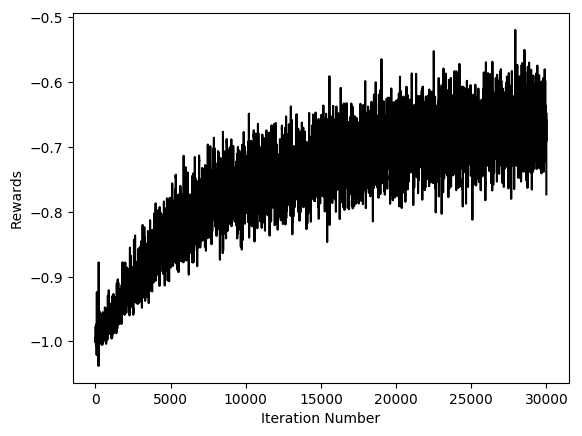
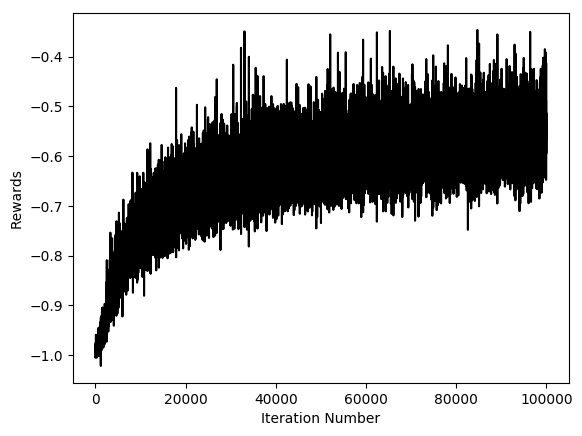
add run of 100k iterations

diff --git a/synthetic-game/config.py b/synthetic-game/config.py
@@ -43,7 +43,7 @@ class config():
     max_dialog_rounds = 2
     # Batch Size
     batch_size = 50
-    num_iterations = 30000
+    num_iterations = 100000
     verbose = True
 ## Evaluation parameters
     test_batch = 50
@@ -56,4 +56,3 @@ class config():
     output_dir = "./results"
     DATA_DIR = "../synthetic_data/"
     DATA_FILE = "synthetic_data.csv"
-    # DATA_FILE = "small.csv"
